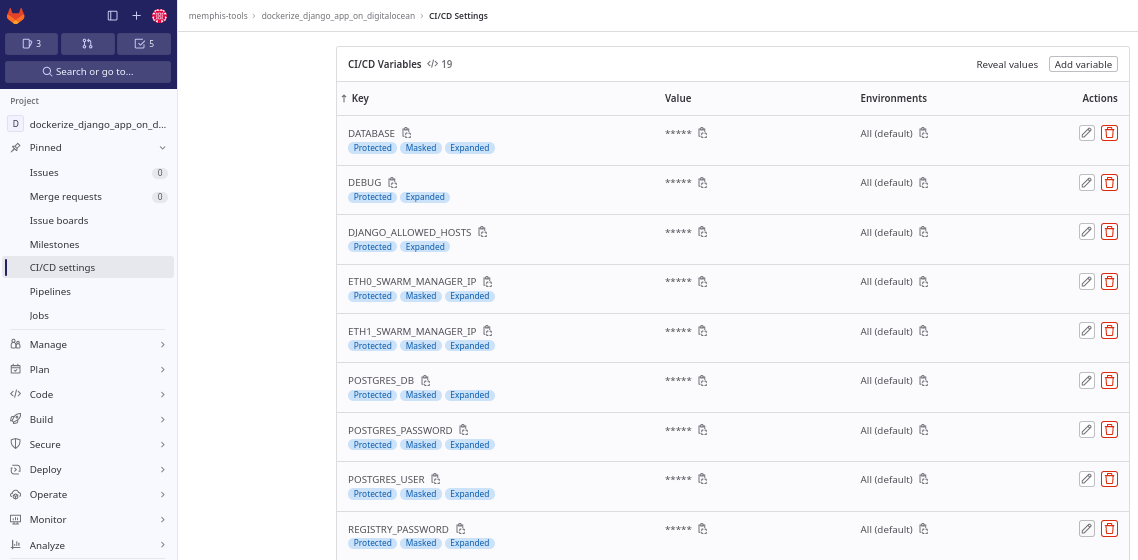
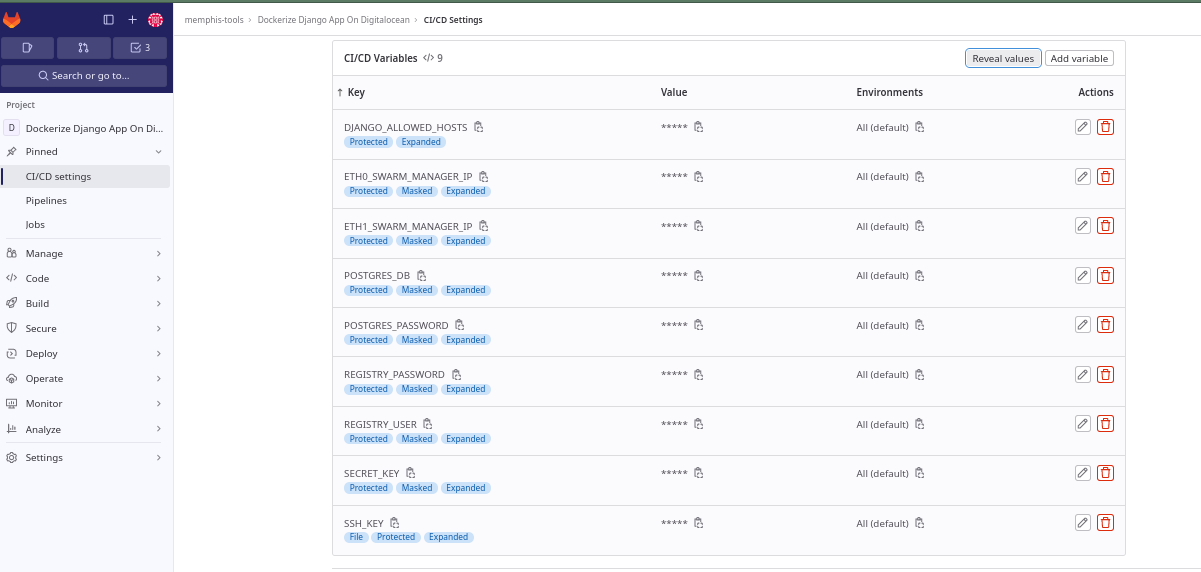
Add illustrations, remove obsoletes instructions

diff --git a/README.md b/README.md
@@ -48,7 +48,7 @@ Postgresql 15 (driver psycopg 3)
 
 Gunicorn
 
-Nginx
+Nginx (nginxinc/nginx-unprivileged image)
 
 Docker, DockerHub
 
@@ -58,23 +58,13 @@ Terraform
 
 ## About it
 
-Published to expose and share progresses. this a dummy working Django project to use for learning purposes.
-
-The application is an exercise based on a local development required by a French Python's Developer curriculum.
-
-It remains at work.
-
 Goal is to have a 'flexible and functional' Django's skeleton application that follows best practices. Ready to be run through containers.
 
 ## Documentation, sources
 
-As a beginner, we have to consult many documentations, examples, suggestions and assertions.
-
-Be sure there are no dummy copy /paste things.
-
 Notice we use the default 'postgres:*.0-alpine' image. We do not update the 'pg_hba.conf' file.
 
-We try to reduce /adapt the Dockerfile's files layer.
+Nginx publish port 5555, but the local container use 8080 (default for nginxinc/nginx-unprivileged image).
 
 Implementation of Docker secrets: [DOCKER SECRETS](https://docs.docker.com/engine/swarm/secrets/)
 
@@ -115,11 +105,15 @@ Postgresql is the database back-end. It dialogues with Django.
 
 ## How use it ?
 
-The common requirement shloud to have create a [DockerHub account](https://hub.docker.com/)
+The common requirement should to have create a [DockerHub account](https://hub.docker.com/)
+
+---
 
 ### Local deployment
 
 You must have installed docker-compose.
+
+Actually see the local deployment capability as a development environment. Here we set .env (not in the cloud deployment).
 
 1. Clone the repository
 
@@ -137,9 +131,9 @@ You must have installed docker-compose.
 
       `pip install -r requirements.txt`
 
-3. Create a '.env.prod' file in the app folder
+3. Create a '.env' file in the app folder
 
-  .env.prod content:
+File content:
 
       DEBUG=0
       SECRET_KEY='SuperSecretKeyToSetByYourself'
@@ -162,7 +156,9 @@ Either you (re)initialize application: ./docker-compose-local-deployment.sh rese
 
 Either you stop and restart application: ./docker-compose-local-deployment.sh reload
 
-### Remote deployment
+---
+
+### Cloud deployment
 
 You need a Gitlab and DigitalOcean account to perform the following.
 
@@ -212,71 +208,43 @@ You have a DigitalOcean account, then create a personal access token, and a ssh 
 
   `[dockerize_django_app_on_digitalocean]$ touch oc_projet9_web_secret.txt`: copy /paste in it your Django SECRET_KEY
 
-  `[dockerize_django_app_on_digitalocean]$ touch app_vars_env`: set it as illustrated below
-
-      DEBUG=0
-      SQL_ENGINE=django.db.backends.postgresql
-      SQL_DATABASE=oc_projet9
-      SQL_USER=postgres
-      SQL_HOST=172.17.0.2
-      SQL_PORT=5432
-      DATABASE=postgres
-      POSTGRES_USER=postgres
-      POSTGRES_DB=oc_projet9
-      SUPERUSER_NAME=admin
-      SUPERUSER_EMAIL=admin@somebluelake.fr
-
 So you should be able to obtain the below arborescence and informations displayed (we set the 'droplet' name as 'dummy-ops') :
 
     `dummy-ops:~# pwd
     /root
     dummy-ops:~# ls -l
     total 12
-    -rw-r--r-- 1 root root 189 Sep 14 21:30 app_vars_env
     -rw-r--r-- 1 root root  11 Sep 14 20:01 oc_projet9_db_secret.txt
     -rw-r--r-- 1 root root  65 Sep 14 20:01 oc_projet9_web_secret.txt
 
     # notice: eth0's "159.65.122.181" is the public ipv4 address (manually declared on Gitlab as ETH0_SWARM_MANAGER_IP).
-    The 5555 port is served through the published port of the Nginx service (set in the 'docker-compose.yml' file). Waiting for TLS the current port translation is *:5555->*:80
+    The 5555 port is served through the published port of the Nginx service (set in the 'docker-compose.yml' file). Waiting for TLS the current port translation is *:5555->*:8080
     # notice: eth1's "10.135.0.2" is a private ipv4 address (manually declared on Gitlab as ETH1_SWARM_MANAGER_IP).
 
     dummy-ops:~# ip -br -4 a
     lo               UNKNOWN        127.0.0.1/8
-    eth0             UP             159.65.122.181/20 10.19.0.5/16  << 159.65.122.181 is the public ipv4 address. So here we would have a http://159.65.122.181:5555 as index page (port has been harcoded you can change it, and so update image).
-    eth1             UP             10.135.0.2/16                   << The one used while publishing the Swarm (dummy-ops:~# docker swarm init --advertise-addr 10.135.0.2)
+    eth0             UP             159.65.122.181/20  << 159.65.122.181 is the public ipv4 address. So here we would have a http://159.65.122.181:5555 as index page (port has been harcoded you can change it, and so update image).
+    eth1             UP             10.135.0.2/16      << The one used while publishing the Swarm (dummy-ops:~# docker swarm init --advertise-addr 10.135.0.2)
     docker0          DOWN           172.17.0.1/16
 
     dummy-ops:~# cat oc_projet9_db_secret.txt
-    @pplepie94
-
-    dummy-ops:~# cat app_vars_env
-    DEBUG=0
-    SQL_ENGINE=django.db.backends.postgresql
-    SQL_DATABASE=oc_projet9
-    SQL_USER=postgres
-    SQL_HOST=172.17.0.2
-    SQL_PORT=5432
-    DATABASE=postgres
-    POSTGRES_USER=postgres
-    POSTGRES_DB=oc_projet9
-    SUPERUSER_NAME=admin
-    SUPERUSER_EMAIL=admin@somebluelake.fr`
+    @pplepie94`
 
 **Notice the bad pratice here**: i hardcode set 2 secrets plain texts, waiting to be set and used as secrets during the Gitlab CI/CD execution, whereas they could /should be removed after docker secret's creation.
 
 Run a pipeline.
 
-![Screenshot](illustrations/oc_projet9_gitlab_pipeline.png))
+![Screenshot](illustrations/oc_projet9_gitlab_pipeline.png)
 
 After the deployment, you add some dummy initial datas as users, text and pictures. Use your web.1 id:
 
     `dummy-ops:~# docker exec web.1.uqj7sxdugvyex93tr4tvkd8mr python ./manage.py init_app_litreview`
 
-![Screenshot](illustrations/oc_projet9_init_app.png))
+![Screenshot](illustrations/oc_projet9_init_app.png)
 
 Open a browser, and log with one of the dummy user created with the init_app_litreview management command.
 
-![Screenshot](illustrations/oc_projet9_on_digitalocean_1.png))
+![Screenshot](illustrations/oc_projet9_on_digitalocean_1.png)
 
 By the way, finally, you can destroy the 'droplet' the way you created it by running:
 
@@ -284,7 +252,7 @@ By the way, finally, you can destroy the 'droplet' the way you created it by run
 
  `[dockerize_django_app_on_digitalocean]$ terraform -chdir=terraform apply terraform.tfplan`
 
- ![Screenshot](illustrations/oc_projet9_destroy_droplet.png))
+ ![Screenshot](illustrations/oc_projet9_destroy_droplet.png)
 
 #### Setup the Gitlab project
 
@@ -292,21 +260,39 @@ You have to create the project on Gitlab directly or import it from Github.
 
 Then declare the following **ENV variables in your Gitlab project**. These will be fully used at **test and build stages** (Gitlab CI/CD) only:
 
-    DEBUG, DJANGO_ALLOWED_HOSTS, POSTGRES_DB, POSTGRES_PASSWORD, POSTGRES_USER, SQL_ENGINE, SQL_DATABASE, SQL_USER, SQL_PASSWORD, SQL_HOST, SQL_PORT, DATABASE, REGISTRY_USER, REGISTRY_PASSWORD, SSH_KEY, ETH0_SWARM_MANAGER_IP, ETH1_SWARM_MANAGER_IP, SUPERUSER_NAME, SUPERUSER_EMAIL
+    DJANGO_ALLOWED_HOSTS, POSTGRES_DB, POSTGRES_PASSWORD,REGISTRY_USER, REGISTRY_PASSWORD, SSH_KEY, ETH0_SWARM_MANAGER_IP, ETH1_SWARM_MANAGER_IP
 
-![Screenshot](illustrations/gitlab_env_variables.png))
+![Screenshot](illustrations/gitlab_env_variables.png)
 
-Actually, the same content as the 'app_vars_env' file. But:
+    REGISTRY_USER and REGISTRY_PASSWORD: Your DockerHub credentials
 
-      REGISTRY_USER and REGISTRY_PASSWORD: Your DockerHub credentials
+    SSH_KEY: the content of your private SSH key.
 
-      SSH_KEY: the content of your private SSH key.
+    ETH0_SWARM_MANAGER_IP: the public ip address which comes from the 'droplet' (virtual machine) created. The eth0 ipv4 address. Don't hardcode eth0 instead of ip (for Linux). In the example: 159.65.122.181.
 
-      ETH0_SWARM_MANAGER_IP: the public ip address which comes from the 'droplet' (virtual machine) created. The eth0 ipv4 address. Don't hardcode eth0 instead of ip (for Linux). In the example: 159.65.122.181.
-
-      ETH1_SWARM_MANAGER_IP: the private ip address from the droplet. In the example: 10.135.0.2.
+    ETH1_SWARM_MANAGER_IP: the private ip address from the droplet. In the example: 10.135.0.2.
 
 ![Screenshot](illustrations/dummy_ops_addresses.png)
+
+---
+
+### Github actions: workflow
+
+![Screenshot](illustrations/gitlab_pull_checks.png)
+
+The ggshield python's package is not in the requirements.txt.
+
+![Screenshot](illustrations/gitguardian_scan.png)
+
+If you want to scan the 3 images used in this public project:
+
+    memphistools/public_repo:dockerize_django_app_on_digitalocean_db
+
+    memphistools/public_repo:dockerize_django_app_on_digitalocean_nginx
+
+    memphistools/public_repo:dockerize_django_app_on_digitalocean_web
+
+---
 
 ### About project usages
 
